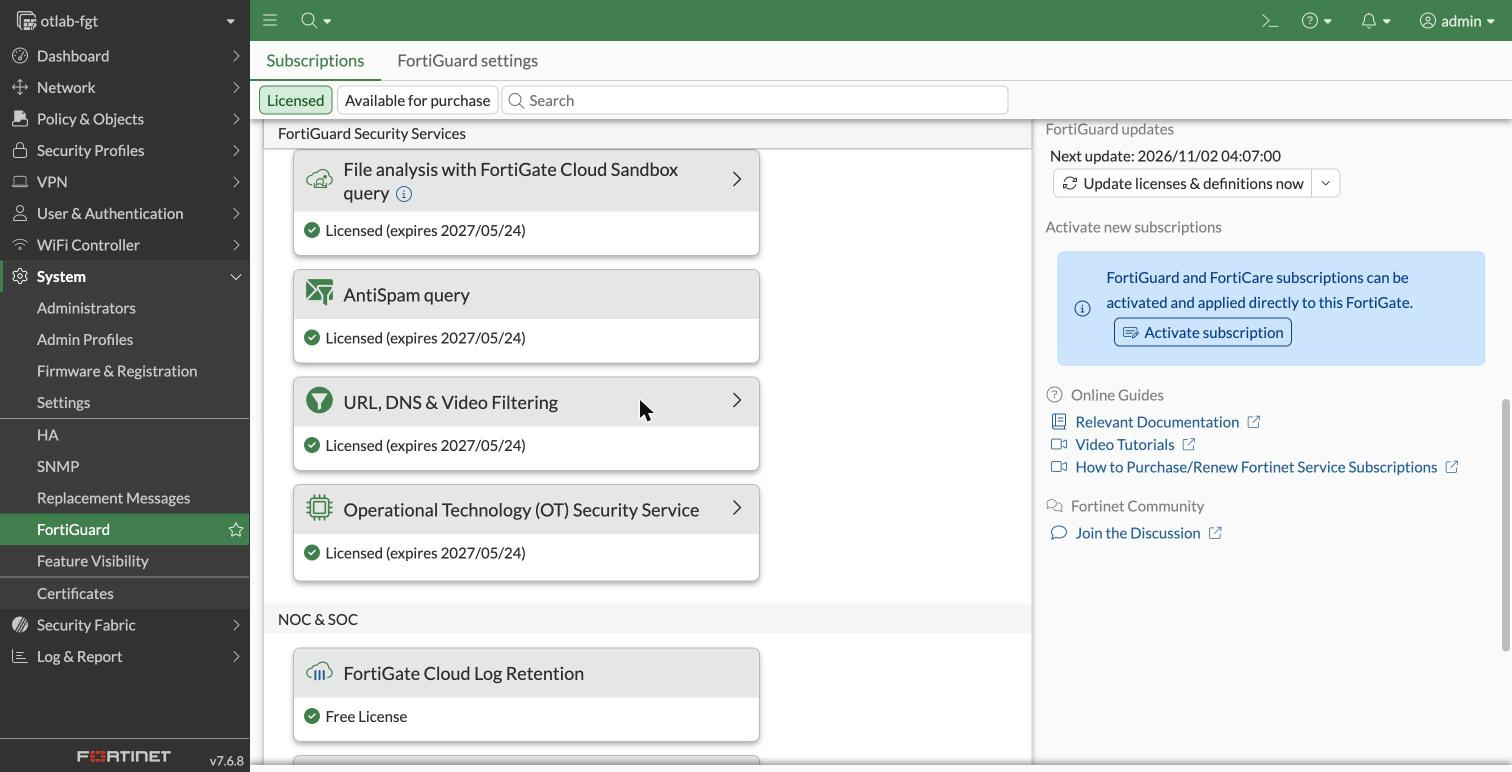
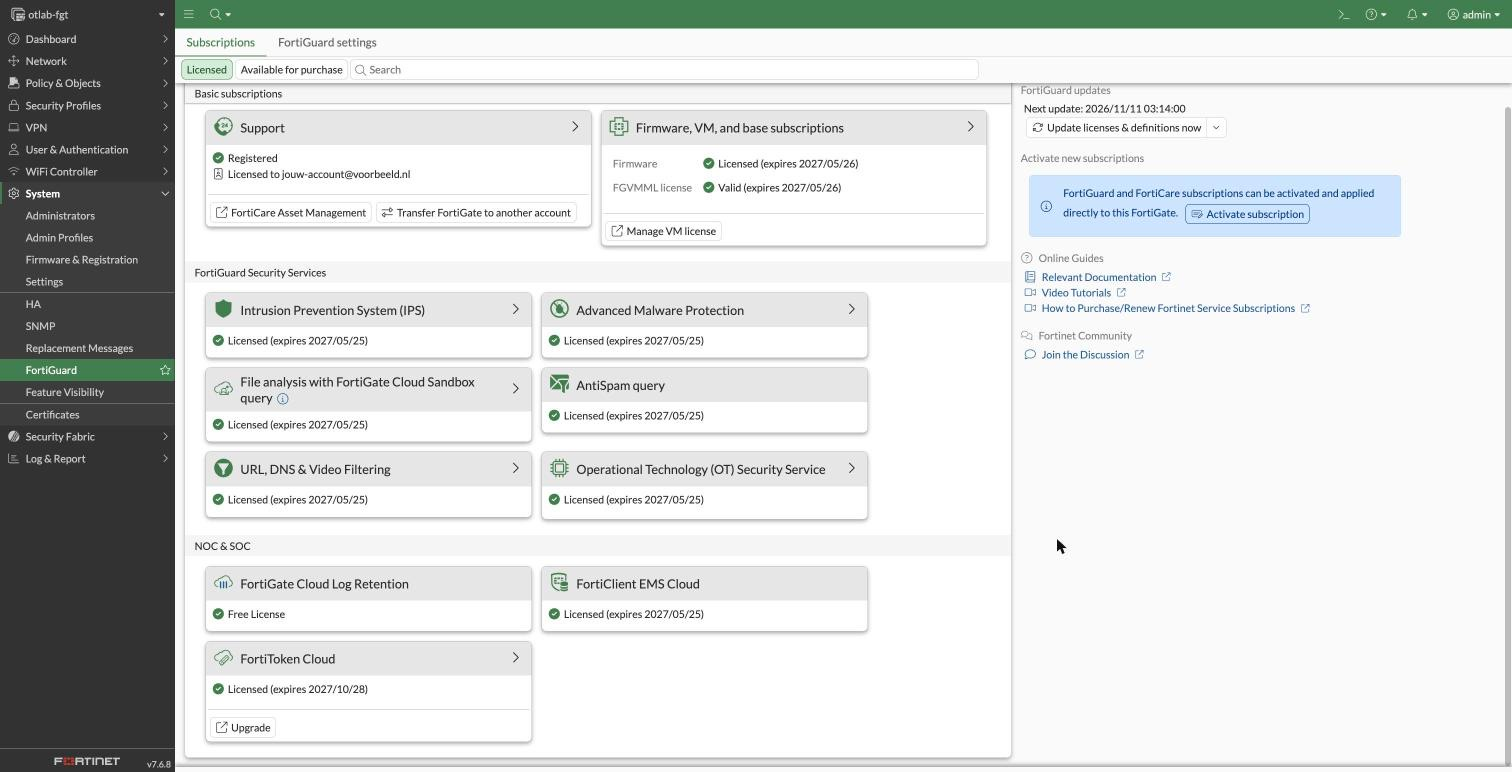
Refresh the lab guide screenshots, fix the lab timezone and give the M580 a Schneider OUI
Replace the guide images with the current controller and FortiGate screens and
add new ones (guide tab, remote access, outbreak, PLC to internet). The
controller now runs on Europe/Amsterdam like the rest of the lab (shared
TIMEZONE constant, install.sh and update.sh set the container). The Modbus PLCs
use OUI 00:00:54 because the FortiGate labels 00:80:F4 as Telemecanique, and the
guide and README describe the asset list and MAC addresses as they are now.

diff --git a/controller/app/deployer.py b/controller/app/deployer.py
@@ -14,7 +14,7 @@ from email.mime.text import MIMEText
 from pathlib import Path
 
 from . import fortigate, updates
-from .config import (ROOT, UPLOADS, contractor_credentials, contractor_totp_secret, get_state, inventory, load_host, load_topology,
+from .config import (ROOT, TIMEZONE, UPLOADS, contractor_credentials, contractor_totp_secret, get_state, inventory, load_host, load_topology,
                      prefixlen, segment_map, template_vmid, update_state,
                      uplink_tag, vm_name)
 from .hostctl import HostError, host
@@ -306,8 +306,8 @@ def build_template(log, topo):
                    timeout=1200, check=True)
         # Tijdzone Europe/Amsterdam, zodat container-logs met de FortiGate en controller
         # synchroon lopen (de default UTC/Pacific liep uit de pas).
-        h.pct_exec(vmid, "ln -sf /usr/share/zoneinfo/Europe/Amsterdam /etc/localtime && "
-                         "echo Europe/Amsterdam > /etc/timezone", check=False)
+        h.pct_exec(vmid, f"ln -sf /usr/share/zoneinfo/{TIMEZONE} /etc/localtime && "
+                         f"echo {TIMEZONE} > /etc/timezone", check=False)
         log("python-omgeving met OT-protocol libraries")
         h.pct_exec(vmid, f"python3 -m venv /opt/otsim/venv && /opt/otsim/venv/bin/pip install -q {PIP_PACKAGES}",
                    timeout=1200, check=True)
@@ -386,7 +386,7 @@ def network_diagnosis(h, vmid) -> list[str]:
 # (passend bij het protocol/identiteit). Dat is mede de voorwaarde voor
 # device-correlatie en virtual patching. IT-hosts, servers en probes blijven neutraal.
 VENDOR_OUI = {
-    "modbus_plc": "00:80:F4",   # Schneider Electric / Telemecanique (Modicon M580)
+    "modbus_plc": "00:00:54",   # Schneider Electric (Modicon M580); 00:80:F4 toonde de FortiGate als "Telemecanique"
     "io_device":  "00:80:F4",   # Schneider field I/O
     "hmi":        "00:80:F4",   # Schneider (Magelis HMI)
     "opcua_gw":   "00:80:F4",   # Schneider OPC UA gateway
@@ -590,8 +590,8 @@ def update_simulators(log):
     for node in inventory(topo):
         if host().status(node["vmid"]) == "running":
             log(f"otsim bijwerken op {node['hostname']}")
-            host().pct_exec(node["vmid"], "ln -sf /usr/share/zoneinfo/Europe/Amsterdam /etc/localtime && "
-                                          "echo Europe/Amsterdam > /etc/timezone", check=False)
+            host().pct_exec(node["vmid"], f"ln -sf /usr/share/zoneinfo/{TIMEZONE} /etc/localtime && "
+                                          f"echo {TIMEZONE} > /etc/timezone", check=False)
             push_otsim(log, node["vmid"])
             sync_packages(log, node)
             write_node_config(node)

diff --git a/controller/app/fortigate.py b/controller/app/fortigate.py
@@ -17,7 +17,7 @@ import paramiko
 import requests
 import urllib3
 
-from .config import SIGNATURES, get_state, inventory, netmask, segment_map, update_state, vm_name
+from .config import SIGNATURES, TIMEZONE, get_state, inventory, netmask, segment_map, update_state, vm_name
 
 urllib3.disable_warnings(urllib3.exceptions.InsecureRequestWarning)
 
@@ -29,9 +29,8 @@ API_USER = "otlab-controller"
 BOOTSTRAP_PASSWORD = "Deployment_Pass2026"
 # Lab: zo lang mogelijk ingelogd blijven in de GUI (FortiOS-maximum, minuten).
 ADMIN_TIMEOUT = 480
-# Tijdzone van de FortiGate (default Pacific is onhandig: logs liepen 8 uur uit de
-# pas met de controller). FortiOS 7.4+ accepteert de IANA-naam.
-TIMEZONE = "Europe/Amsterdam"
+# De FortiGate krijgt dezelfde tijdzone als de rest van het lab (config.TIMEZONE; default
+# Pacific liep 8 uur uit de pas). FortiOS 7.4+ accepteert de IANA-naam.
 
 
 def port_alias(seg) -> str:

diff --git a/controller/app/config.py b/controller/app/config.py
@@ -16,6 +16,13 @@ from pathlib import Path
 
 import yaml
 
+# Eén tijdzone voor het hele lab: FortiGate, containers en de controller zelf, zodat de
+# logs onderling synchroon lopen (de default UTC/Pacific liep uren uit de pas).
+TIMEZONE = "Europe/Amsterdam"
+if (Path("/usr/share/zoneinfo") / TIMEZONE).exists():
+    os.environ["TZ"] = TIMEZONE
+    time.tzset()
+
 ROOT = Path(os.environ.get("OTLAB_ROOT", Path(__file__).resolve().parents[2]))
 DATA = ROOT / "data"
 UPLOADS = DATA / "uploads"

diff --git a/docs/lab-guide.md b/docs/lab-guide.md
@@ -90,7 +90,14 @@ wachtwoord wordt één keer gegenereerd en staat in het Testcenter. De jump host
 vraagt daarna een **MFA-code** (TOTP). Het Testcenter toont de actuele code en het
 geheim, zodat je het ook in een authenticator-app kunt zetten.
 
-![Testcenter: de drie ingangen met URL's, logins en het kijkvenster](img/01-toegang.jpg)
+![Testcenter: de drie ingangen met URL's, logins en het kijkvenster, met daaronder de eerste test (`ot-signatures`)](img/01-toegang.jpg)
+
+Deze gids staat ook in de controller, onder het tabblad **Lab guide**: links de
+hoofdstukken, rechts de tekst. Achter elke test-id (zoals `contractor-login`) staat een
+**Draai**-knop met het laatste resultaat, zodat je een test start zonder van tabblad te
+wisselen.
+
+![Lab guide-tabblad in de controller, met Draai-knoppen achter de tests](img/00-labguide-tab.jpg)
 
 ---
 
@@ -174,7 +181,9 @@ hebben we, en wie praat ermee?" Er is geen assetlijst.*
   gerust ook een paar andere tests, zodat elk device verkeer heeft gemaakt.
 - In de FortiGate-GUI:
   - *Security Fabric > Asset Identity Center*, tabblad **Asset Identity List**:
-    elk device met MAC-adres, IP-adres en de poort (laag) waarop het gezien is;
+    elk device met MAC-adres (waaruit de fabrikant volgt), IP-adres, status en de poort
+    (laag) waarop het gezien is. Een device staat pas in de lijst nadat de FortiGate er
+    verkeer van zag;
   - hetzelfde, tabblad **OT View**: de assets per Purdue-level. Elke segmentpoort
     heeft een standaard-level (port2 L3.5, port3 L3, port4 L2, port5 L1, port6 L1,
     port7 L4). FortiOS 7.6 kent op interfaces geen level 0, dus de field I/O valt in L1.
@@ -182,7 +191,7 @@ hebben we, en wie praat ermee?" Er is geen assetlijst.*
   - de Application Control-logs, waar OPC UA, Modbus en S7 als applicatie
     zichtbaar zijn en niet als "TCP 4840" of "TCP 502".
 
-![Asset Identity Center: devices per segment, herkend aan hun verkeer](img/fgt-assets.jpg)
+![Asset Identity List: devices met hun MAC-adres, IP-adres en de poort waarop ze gezien zijn; de OUI (`00:80:f4`, `00:1b:1b`) bepaalt de vendor, het OS staat op Unknown](img/fgt-assets.jpg)
 
 ![OT View: dezelfde assets per Purdue-level, met de FortiGate in L3](img/fgt-otview.jpg)
 
@@ -200,11 +209,18 @@ hebben we, en wie praat ermee?" Er is geen assetlijst.*
   OT-monitor-profiel blokkeert niets, maar logt alles.
 - Elk device heeft een vast MAC-adres met de laatste drie octetten van zijn IP, zodat
   het na een herinstallatie hetzelfde asset blijft. De eerste drie octetten (de OUI)
-  volgen de **fabrikant** die het device simuleert: Schneider/Telemecanique
-  (`00:80:F4`) voor de Modbus-PLC's, field-I/O, HMI en OPC UA-gateway, Siemens
-  (`00:1B:1B`) voor de S7-PLC; servers en probes blijven neutraal (`02:4F:54`). Zo
-  deelt de FortiGate (via de *MAC Address Database*) elk asset meteen bij de juiste
-  vendor in — de basis voor de kwetsbaarheidscorrelatie in hoofdstuk 7.
+  volgen de **fabrikant** die het device simuleert: Schneider Electric (`00:00:54`)
+  voor de Modbus-PLC's, Schneider/Telemecanique (`00:80:F4`) voor field-I/O, HMI en
+  OPC UA-gateway, Siemens (`00:1B:1B`) voor de S7-PLC; servers en probes blijven
+  neutraal (`02:4F:54`). De FortiGate leest de vendor uit de *MAC Address Database*:
+  dat is de eerste stap voor de kwetsbaarheidscorrelatie in hoofdstuk 7.
+- Het **OS** staat bij de simulators op *Unknown* en de kolom *Vulnerabilities* op 0.
+  Dat zijn simulators zonder echte firmware: de FortiGate leidt vendor, protocol en
+  laag af uit MAC-adres en verkeer, maar kent van deze devices geen besturingssysteem.
+  Alleen enkele Linux-servers krijgen een OS (Debian).
+- De lijst vult zich naarmate devices verkeer maken, en meteen na een uitrol is hij
+  nog niet compleet. Wacht een paar minuten en draai een aantal tests voordat je de
+  lijst als referentie gebruikt.
 
 **Les**
 - Zichtbaarheid komt eerst: je kunt niet beschermen wat je niet ziet.
@@ -264,6 +280,8 @@ Vroeger had hij een TeamViewer-sessie rechtstreeks op de EWS.*
    - **Jump host naar de engineering workstation** (`jump-to-ews`): stap 3;
    - **Jump host probeert direct een PLC** (`jump-to-plc`): stap 2.
 
+![Testcenter, groep Remote access: de login via de VIP, de geweigerde poging zonder MFA-code en de hops naar de EWS, met de bijbehorende FortiGate-logregels](img/03-remote-access.jpg)
+
 **Onthulling**
 - Stap 1 gaat door de VIP (WAN :2222 naar 22), stap 3 door de conduit "DMZ jump → L2 EWS".
 - Stap 2 wordt geblokkeerd: de DMZ heeft geen conduit naar L1.
@@ -319,7 +337,7 @@ de doorgelaten en geblokkeerde Industrial-applicaties.
   tune je een signature eerst in monitor-modus voordat je hem op blokkeren zet?
 - Zet de signature daarna weer uit, of draai de policy-uitrol opnieuw.
 
-![Security Events met de signatures aan: links de Industrial-applicaties, rechts honderden read- en write-meldingen op normaal verkeer](img/fgt-security-events.jpg)
+![Security Events: links Application Control met de Industrial-applicaties (veel doorgelaten, een paar geblokkeerde writes), rechts de IPS-melding van de Shellshock-poging](img/fgt-security-events.jpg)
 
 **Voor en na: breek het**
 
@@ -334,7 +352,7 @@ de doorgelaten en geblokkeerde Industrial-applicaties.
   tank-PLC, en de pomp blijft draaien. Binnen een minuut toont de HMI
   **ALARM: TANK LOOPT OVER**.
 
-![SCADA HMI tijdens "Breek het": de tank-PLC staat op 97% en de HMI slaat alarm](img/04-breek-het.jpg)
+![SCADA HMI tijdens "Breek het": setpoint 999, tankniveau 100 en de HMI meldt ALARM: TANK LOOPT OVER; rechts de joblog van de demo](img/04-breek-het.jpg)
 
 - Na 60 seconden zet de controller de policy terug en het setpoint via de HMI op 50.
   Draai daarna **L3 schrijft een Modbus-setpoint** (`l3-modbus-write`) nog eens:
@@ -387,10 +405,14 @@ PLC's en de EWS mogen bij L0.
 - **Tank-PLC probeert naar huis te bellen** (`plc-to-internet`): HTTPS naar 1.1.1.1.
 - **Patch-server haalt updates op** (`patch-to-internet`): hetzelfde, vanaf de DMZ.
 
+![Testcenter: de groepen Uitbraak naar internet en Zichtbaarheid, met de uitkomst en de FortiGate-logregels per test](img/06-uitbraak-zichtbaarheid.jpg)
+
 **Onthulling**
 De PLC komt niet buiten: er is geen policy van L1 naar de WAN, dus de implicit
 deny logt de poging. Alleen de patch-server in de DMZ mag naar buiten, en alleen
 voor HTTP, HTTPS en DNS.
+
+![Forward traffic naar 1.1.1.1: de tank-PLC (10.10.0.10) wordt vijf keer geweigerd door de implicit deny, de patch-server (10.35.0.20) komt via de policy "DMZ patch->Internet" wel door](img/fgt-plc-internet.jpg)
 
 **Les**
 - Uitgaand verkeer is net zo belangrijk als inkomend: een geblokkeerde C2-verbinding
@@ -433,15 +455,18 @@ en die mag over HTTP bij het MES.*
 *kwetsbaarheden van een herkend product*. De FortiGate moet de PLC dus eerst als een
 specifiek apparaat zien. In dit lab stelt de tank-PLC zich voor als een **Schneider
 Modicon M580**, op twee manieren tegelijk:
-- het **MAC-adres** krijgt de Schneider/Telemecanique-OUI `00:80:F4` (de *MAC Address
-  Database* vertaalt dat naar de vendor);
+- het **MAC-adres** krijgt de Schneider Electric-OUI `00:00:54` (de *MAC Address
+  Database* vertaalt dat naar de vendor; de OUI `00:80:F4` toonde de FortiGate als
+  "Telemecanique", dus die gebruiken de PLC's niet);
 - de PLC beantwoordt **Modbus Read Device Identification** (function code 43) met
   vendor *Schneider Electric*, product *BMEP582040 / Modicon M580* en firmware `SV2.70`;
   de HMI vraagt die identiteit periodiek op, zodat het fingerprint de FortiGate passeert.
 
-Controleer in *Security Fabric > Asset Identity Center* dat de PLC als Schneider
-Modicon verschijnt, en open de **IoT/OT-kwetsbaarheden** van dat device: daar komen de
-bekende CVE's met hun **Virtual Patching Signatures** te staan.
+Bekijk in *Security Fabric > Asset Identity Center* de tank-PLC (10.10.0.10): de vendor
+komt uit het MAC-adres. Of de FortiGate daarnaast het model (Modicon M580) en de bijbehorende
+**IoT/OT-kwetsbaarheden** koppelt, hangt af van wat hij uit het device-ID haalt; de
+kolom *Vulnerabilities* laat zien of dat gelukt is. Voor de demo hieronder is dat niet
+nodig: de M580-signature wordt ook expliciet afgedwongen in de **OT-IPS-sensor**.
 
 ![Virtual Patching Signatures: de Modicon M580 UMAS-signatures met hun CVE's (Block)](img/fgt-vpatch-sigs.jpg)
 
@@ -488,7 +513,7 @@ Security Service.
 > Virtual patching leunt op device-herkenning: op een echte PLC koppelt de FortiGate de
 > CVE's automatisch zodra hij het product kent (het **Virtual Patching-profiel** doet dat,
 > zoals bij het MES hierboven). Onze PLC is een simulator, dus laten we hem er zo echt
-> mogelijk uitzien — vendor-MAC `00:80:F4` plus een Modbus device-ID als Modicon M580 —
+> mogelijk uitzien — vendor-MAC `00:00:54` plus een Modbus device-ID als Modicon M580 —
 > én dwingen we de M580-signature bovendien expliciet af in de **OT-IPS-sensor** (block
 > medium+), zodat de enforcement niet alleen van de automatische correlatie afhangt. De
 > virtual-patch-database bevat duizenden van dit soort CVE-signatures voor concrete

diff --git a/README.md b/README.md
@@ -175,8 +175,10 @@ met een echte FortiGate-VM gedraaid**. Controleer bij de eerste uitrol vooral:
 - **Device-identificatie (vendor-MAC's + device-ID)**: de FortiGate deelt OT-assets in op o.a. het
   MAC-adres (MAC Address Database → vendor) en het protocol. Daarom krijgt elk gesimuleerd device de
   MAC-OUI van de fabrikant die het nabootst (`VENDOR_OUI` in `controller/app/deployer.py`):
-  Schneider/Telemecanique (`00:80:F4`) voor de Modbus-PLC's, field-I/O, HMI en OPC UA-gateway, Siemens
-  (`00:1B:1B`) voor de S7-PLC; IT-hosts en probes blijven neutraal (`02:4F:54`). Een redeploy werkt de
+  Schneider Electric (`00:00:54`) voor de Modbus-PLC's (de gesimuleerde M580), Schneider/Telemecanique
+  (`00:80:F4`) voor field-I/O, HMI en OPC UA-gateway, Siemens (`00:1B:1B`) voor de S7-PLC; IT-hosts en probes
+  blijven neutraal (`02:4F:54`). De FortiGate noemt `00:80:F4` "Telemecanique" en niet "Schneider Electric";
+  daarom hebben de PLC's een andere Schneider-OUI. Een redeploy werkt de
   MAC op bestaande containers bij. De Modbus-PLC's beantwoorden daarnaast **Modbus Read Device
   Identification (FC43)** als een Schneider **Modicon M580** (firmware `SV2.70`) — `_plc_identity()` in
   `otsim/modbus.py` — en de HMI vraagt die identiteit periodiek op, zodat de FortiGate vendor én model
